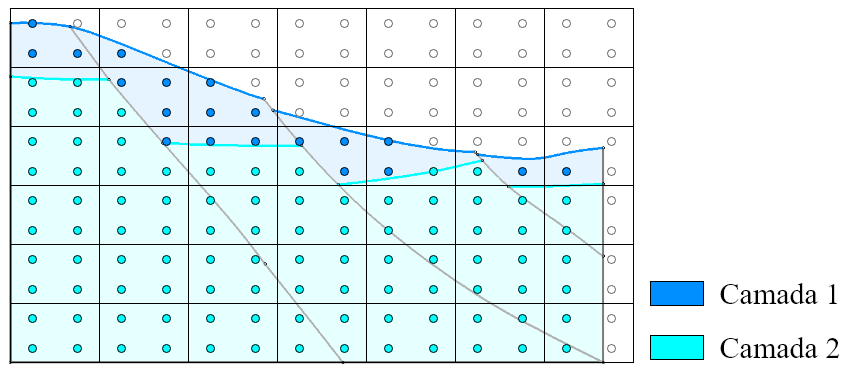
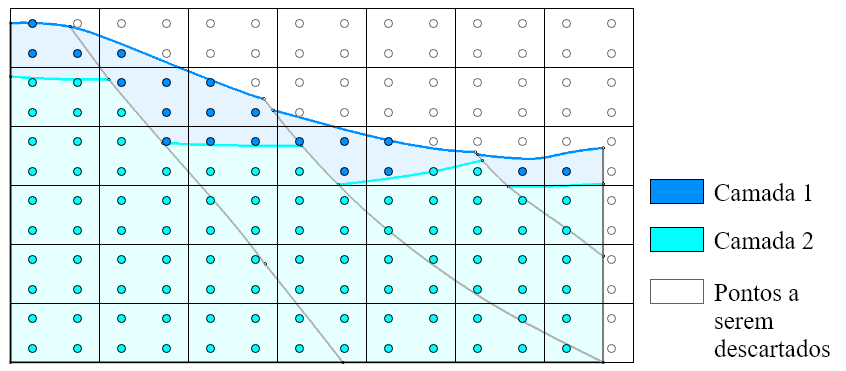
add Muller rev

diff --git a/chapter-map-vol.tex b/chapter-map-vol.tex
@@ -2,9 +2,9 @@
 
 \section{Mapeamento do Volume}
 
-O mapeamento do volume geológico é feito com o uso uma nuvem de pontos contida no domínio tridimensional do modelo. Cada ponto precisa ter informação sobre a qual camada geológica ele pertence. O mapeamento é feito com a movimentação desses pontos a cada \textit{EtapaMS} de restauração, realizando uma deformação do volume que está discretizado por esses pontos. As fontes da movimentação são os nós das malhas das seções em conjunto dos pontos do mapeamento de superfície.
+No presente item será apresentado o mapeamento da movimentação das seções no volume. A movimentação das seções em cada \emph{EtapaMS} de restauração acabará por determinar uma movimentação do volume. Tendo em vista que as superfícies do modelo foram mapeadas como apresentado anteriormente, a movimentação dessas superfícies também é mapeada no volume.
 
-Nesta seção serão apresentados a metodologia por trás do mapeamento do volume e o sua aplicação dentro do Sistema Recon, bem como detalhes sobre os requisitos para utilização do método.
+Nesta seção serão apresentados a metodologia para o mapeamento do volume e o sua aplicação dentro do Sistema Recon, bem como detalhes sobre os requisitos para utilização do método. Uma breve discussão sobre os resultados será realizada.
 
 \subsection{Metodologia}\label{vol-metodology}
 
@@ -135,21 +135,21 @@ Em síntese, com
 
 \subsection{Preparação dos dados}
 
-O uso desse procedimento dentro do Sistema Recon para realizar o mapeamento do volume requer uma série de dados extraídos da restauração das seções e do mapeamento de superfícies, neste subseção item serão apresentados esses requisitos e o modo de tratamento dos dados.
+O uso desse procedimento dentro do Sistema Recon para realizar o mapeamento do volume requer uma série de dados extraídos da restauração das seções e do mapeamento de superfícies, neste subitem serão apresentados os requisitos e o modo de tratamento dos dados.
 
 \subsubsection{Lista de falhas e \emph{EtapasMS}}
 
-Assim como no mapeamento de superfícies, é preciso que o modelo esteja com a restauração das seções já finalizadas com \emph{EtapasMS} também prontas. Além disso é necessário que também tenha sido feito o mapeamento de superfícies e assim ter ainda mais pontos contribuindo para a movimentação do volume\footnote{É possível realizar o mapeamento de superfícies em paralelo com o volume, bastando realizar a cada passo um e outro alternadamente.}.
+Assim como no mapeamento de superfícies, é preciso que o modelo esteja com a restauração das seções já finalizadas com \emph{EtapasMS} também prontas. Além disso, caso tenha sido feito o mapeamento de superfícies, é possível extrair dados desse mapeamento e assim ter ainda mais pontos contribuindo para a movimentação do volume\footnote{É possível realizar o mapeamento de superfícies em paralelo com o volume, bastando realizar a cada passo um e outro alternadamente.}.
 
 Ao iniciar o mapeamento de volume, o primeiro passo é o levantamento de quantas \emph{EtapasMS} existem no modelo. Isto é necessário porque o mapeamento do volume também é feito por \emph{EtapaMS}, mais precisamente de uma \emph{EtapaMS} atual em relação à próxima. Ou seja, a entrada de dados vem principalmente das seções e superfícies em relação ao passo seguinte da restauração do modelo.
 
-Após isso, busca-se todas as superfícies tridimensionais do modelo, incluindo as de falhas e horizontes\footnote{As de horizonte precisam estar no estado original do modelo, ou seja, antes de haver deformação pelo mapeamento de superfícies. Neste caso, superfícies da \emph{EtapaMS} inicial.}. O porquê dessa busca é que as superfícies serão o principal parâmetro para a geração da nuvem de pontos que irão representar o volume discretizado. É com informação dessas superfícies que um ponto será marcado como pertencente a uma ou outra camada geológica.
+Após isso, busca-se todas as superfícies tridimensionais do modelo, incluindo as de falhas e horizontes\footnote{As de horizonte precisam estar no estado original do modelo, ou seja, antes de haver deformação pelo mapeamento de superfícies. Neste caso, superfícies da \emph{EtapaMS} inicial.}. As superfícies serão o principal parâmetro para a geração da nuvem de pontos que irão representar o volume discretizado.
 
-Com todos esses dados levantados, parte-se à geração da nuvem de pontos. Importante ressaltar que esses pontos serão os mesmos durante todo o processo. Em outras palavras, o passo seguinte do mapeamento usa a nuvem de pontos do passo anterior.
+Com todos esses dados levantados, parte-se à geração da nuvem de pontos. Importante ressaltar que a geração da nuvem de pontos só é realizada uma única vez. Na etapa de descompactação serão removidos os pontos correspondentes à camada removida.
 
 \subsubsection{Geração da nuvem de pontos} 
 
-A nuvem de pontos espaciais neste mapeamento, como já dito, é o volume geológico discretizado. Para sua criação, é preciso identificar o domínio tridimensional do modelo. Isto é feito com o cálculo da caixa envoltória do de todo o modelo, em termos práticos, é a união das caixas envoltórias de todas as superfícies.
+A nuvem de pontos espaciais neste mapeamento, como já dito, é o volume geológico discretizado. Para sua criação, é preciso identificar o domínio tridimensional do modelo. Isto é feito com o cálculo da caixa envoltória de todo o modelo, em termos práticos, é a união das caixas envoltórias de todas as superfícies.
 
 Com esta informação já é possível realizar a geração do grade volumétrica (Figura~\ref{fig-vol-grid}). Essa grade não é visualizada no modelo, apenas uma abstração utilizada no cálculo da movimentação e também para a geração dos pontos. Cada célula da grade é responsável por abrigar 8 pontos, como mostra a Figura~\ref{fig-vol-cell}.
 
@@ -169,7 +169,7 @@ Com esta informação já é possível realizar a geração do grade volumétric
 
 Cada célula possui as mesmas dimensões, na Figura~\ref{fig-vol-cell}, os comprimentos em $x$, $y$ e $z$ são obtidos pela divisão da caixa envoltória pelo número de subdivisões requerida e representados por $l_x$, $l_y$ e $l_z$ respectivamente. Os pontos internos são localizados segundo esses comprimentos; também na Figura~\ref{fig-vol-cell} as coordenadas são obtidas a partir de $a$, $b$ e $c$, que são, respectivamente, $l_x/4$, $l_z/4$ e $l_y/4$.
 
-No entanto, apenas criar as células e então os pontos não é a única etapa. Os pontos que estão dentro da caixa envoltória mas fora do modelo geológico, precisam ser descartados. Ou seja, pontos acima da superfície de horizonte mais recente, precisam ser removidos. Além disso, dentre aqueles que restam é preciso que se defina qual camada tal ponto pertence. Esta definição pode ser melhor explicada com uma ilustração em 2D, como na Figura~\ref{fig-vol-2d}. Cada ponto entre entre duas superfícies de horizonte é marcado como pertencente à camada de cima. Os pontos abaixo da última superfície (mais antiga) são definidos como pertencentes a esta.
+No entanto, apenas criar as células e então os pontos não é a única etapa. Os pontos que estão dentro da caixa envoltória mas fora do modelo geológico, precisam ser descartados. Ou seja, pontos acima da superfície de horizonte mais recente, precisam ser removidos. Além disso, dentre aqueles que restam é preciso que se defina a qual camada tal ponto pertence. Esta definição pode ser melhor explicada com uma ilustração em 2D, como na Figura~\ref{fig-vol-2d}. Cada ponto entre entre duas superfícies de horizonte é marcado como pertencente à camada de cima. Os pontos abaixo da última superfície (mais antiga) são definidos como pertencentes a esta.
 
 \begin{figure} [H]
   \begin{center}
@@ -281,3 +281,8 @@ Diferente do mapeamento de superfícies, aqui no volume não há necessidade de 
 
 Quando há uma \emph{EtapaMS} de descompactação, os pontos de seções e superfícies continuam sendo guia de movimentação porém, os pontos da camada do topo são removidas da nuvem de pontos e assim manter o volume do modelo atualizado segundo o estado corrente da restauração. A Figura~\ref{fig-vol-ex-7} mostra o antes e depois da descompactação neste modelo usado como exemplo.
 
+Conforme os resultados obtidos movimentação do volume pode ser vista como uma boa aproximação. Pois percebe-se que o volume se comportou de forma relativamente coerente com as seções, respeitando, inclusive, a restrição das superfícies de falhas.
+
+Este processo de mapeamento do volume apresenta facilidade de uso e representa bem modelos geológicos complexos, sem uma necessidade explícita de definição do volume. Além do mais, o método numérico empregado é capaz de fornecer bons resultados com eficiência computacional.
+
+Com esta metodologia tem-se a possibilidade de mapear um ponto qualquer no ambiente multisseções ao longo da restauração de um modelo geológico. Há ainda a chance de movimentar pontos de seções não restauradas com base na restauração das demais, uma forma de restaurar uma seção geológica passivamente.
